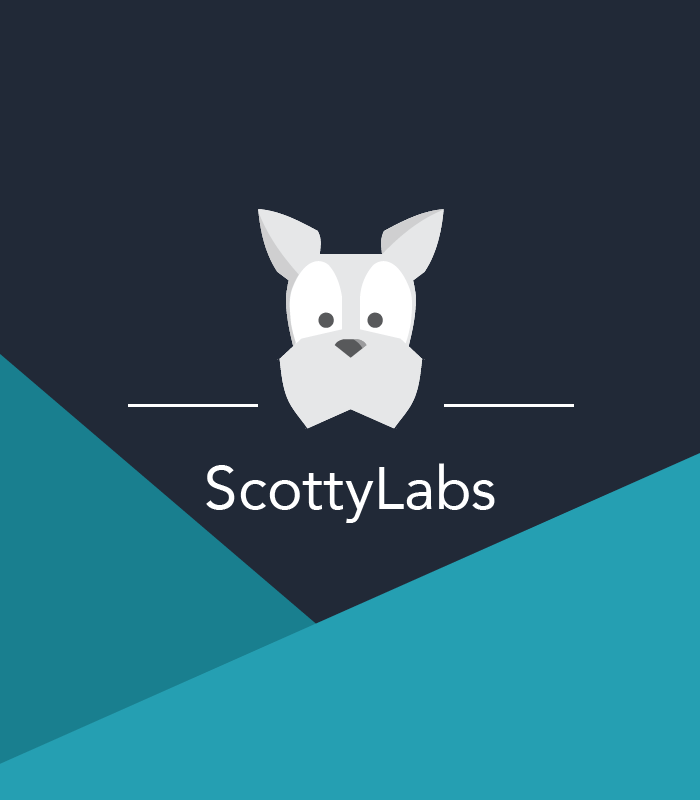
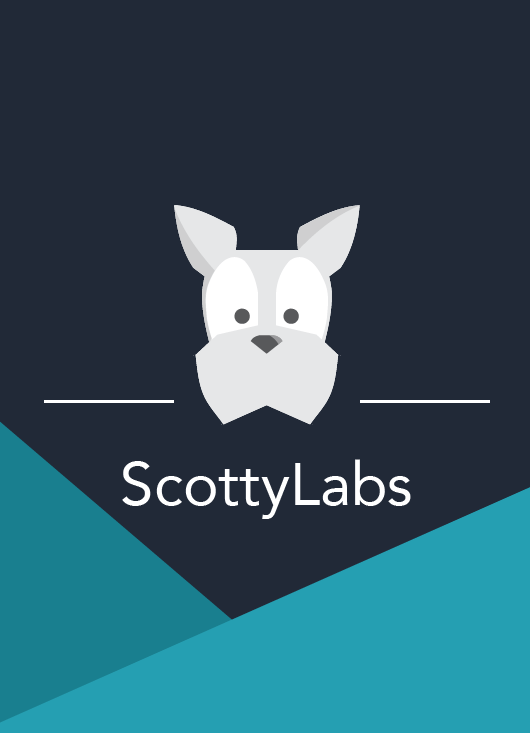
mobile optimization

Changed region(s): [[0.0, 0.2401, 1.0, 0.9905], [0.6943, 0.5402, 0.9057, 0.5703]]

diff --git a/css/slStyles.css b/css/slStyles.css
@@ -297,6 +297,20 @@ header .intro-text .intro-heading {
     font-weight: 500;
 }
 
+@media(max-width: 400px){
+    header {
+    text-align: center;
+    color: #fff;
+    background-attachment: scroll;
+    background-image: url(../img/mobileHeader-bg.png);
+    background-position: center center;
+    background-repeat: none;
+    -webkit-background-size: cover;
+    -moz-background-size: cover;
+    background-size: cover;
+    -o-background-size: cover;
+}
+
 @media(min-width:768px) {
     header .intro-text {
         padding-top: 400px;
